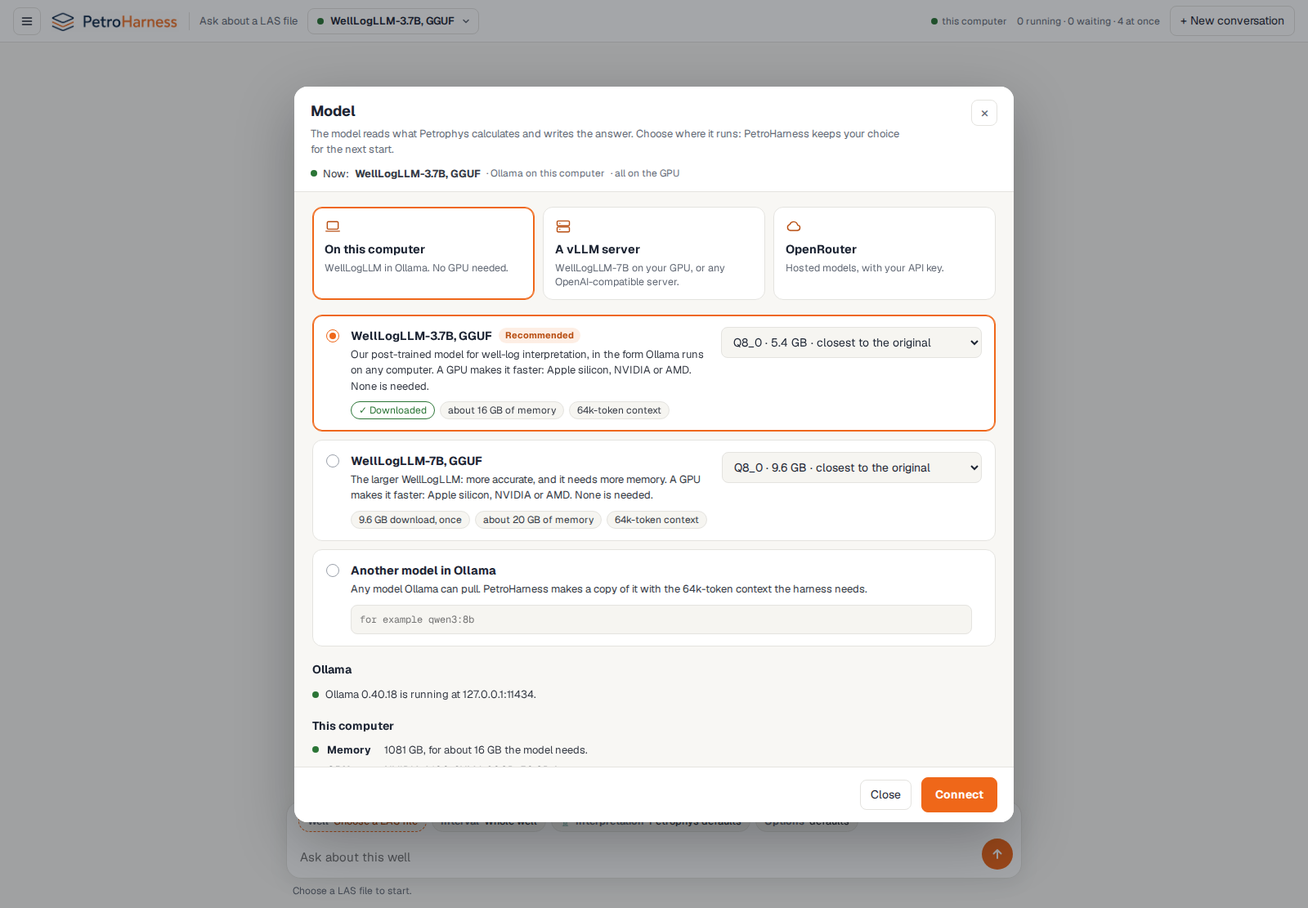
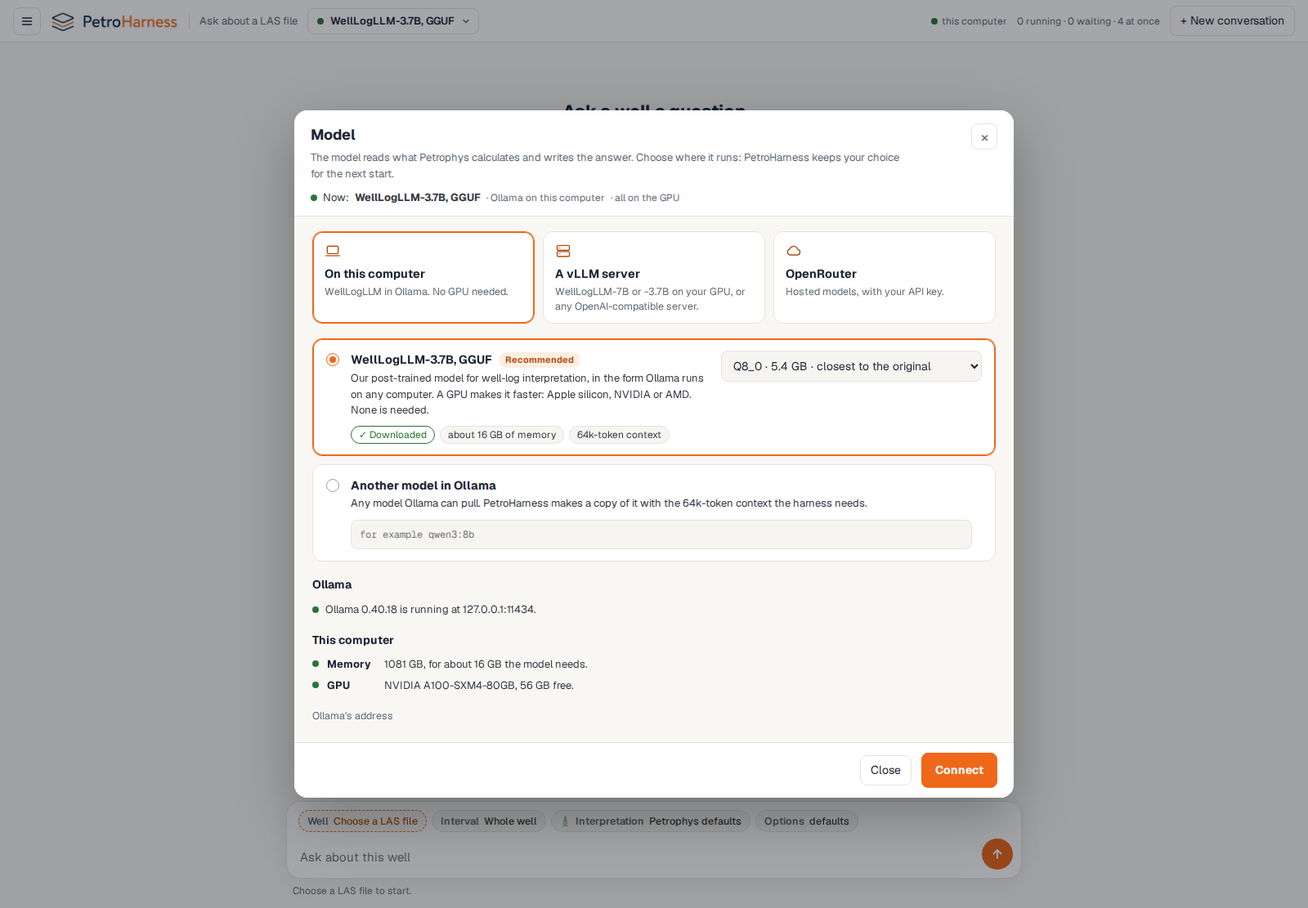
PetroHarness 1.3.1

Changed region(s): [[0.2188, 0.0918, 0.7812, 0.9181], [0.5938, 0.2448, 0.7188, 0.3366], [0.5625, 0.4896, 0.75, 0.5203]]

diff --git a/src/petroharness/ui/static/index.html b/src/petroharness/ui/static/index.html
@@ -1836,7 +1836,7 @@ const M = {st: null, tab: "", pick: "welllogllm", quant: "", other: "", ourl: ""
 const ICON = (d) => `<svg width="20" height="20" viewBox="0 0 24 24" fill="none" stroke="currentColor" stroke-width="1.7" stroke-linecap="round" stroke-linejoin="round">${d}</svg>`;
 const ROUTES = [
   {id: "ollama", t: "On this computer", d: "WellLogLLM in Ollama. No GPU needed.", i: ICON('<rect x="4" y="5" width="16" height="11" rx="1.5"/><path d="M2 19h20"/>')},
-  {id: "server", t: "A vLLM server", d: "WellLogLLM-7B on your GPU, or any OpenAI-compatible server.", i: ICON('<rect x="3" y="4" width="18" height="7" rx="1.5"/><rect x="3" y="13" width="18" height="7" rx="1.5"/><path d="M7 7.5h.01M7 16.5h.01"/>')},
+  {id: "server", t: "A vLLM server", d: "WellLogLLM-7B or -3.7B on your GPU, or any OpenAI-compatible server.", i: ICON('<rect x="3" y="4" width="18" height="7" rx="1.5"/><rect x="3" y="13" width="18" height="7" rx="1.5"/><path d="M7 7.5h.01M7 16.5h.01"/>')},
   {id: "openrouter", t: "OpenRouter", d: "Hosted models, with your API key.", i: ICON('<path d="M7 18h10a4 4 0 0 0 .6-7.96A6 6 0 0 0 6.1 9.2 4.5 4.5 0 0 0 7 18z"/>')}];
 const WHERE = {ollama: "Ollama on this computer", server: "a vLLM server", openrouter: "OpenRouter"};
 const QNOTE = {Q8_0: "closest to the original", Q4_K_M: "smallest, least accurate"};
@@ -1946,9 +1946,8 @@ function mpanelRender() {
   else { p.innerHTML = mRouter(); mRouterWire(); if (!M.or.list && !M.or.loading) routerList(); }
   mfootRender();
 }
-// on this computer: WellLogLLM as a GGUF (3.7B or 7B), or another Ollama model
-const SIZES = [["3.7b", "Our post-trained model for well-log interpretation, in the form Ollama runs on any computer.", true],
-               ["7b", "The larger WellLogLLM: more accurate, and it needs more memory.", false]];
+// on this computer: WellLogLLM-3.7B as a GGUF, or another Ollama model (WellLogLLM-7B is for a GPU server: vLLM)
+const SIZES = [["3.7b", "Our post-trained model for well-log interpretation, in the form Ollama runs on any computer.", true]];
 function mHave(size, q) { const o = M.ollama; return !!(o && o.welllogllm && o.welllogllm[size] && o.welllogllm[size][q]); }
 function mOllama() {
   const o = M.ollama, st = M.st;

diff --git a/src/petroharness/connect.py b/src/petroharness/connect.py
@@ -1,7 +1,7 @@
 """Connect a model: the ways a person running PetroHarness plugs in the model that answers, and the choice they keep.
 
-    ollama      a model on this computer, run by Ollama: WellLogLLM-3.7B or -7B as a GGUF from Hugging Face, or any
-                model Ollama can pull. PetroHarness makes a copy of it with the context window the harness needs
+    ollama      a model on this computer, run by Ollama: WellLogLLM-3.7B as a GGUF from Hugging Face, or any model
+                Ollama can pull. PetroHarness makes a copy of it with the context window the harness needs
                 (CONTEXT), loads it, and says where Ollama runs it (the GPU: Apple silicon through Metal, NVIDIA, AMD;
                 or the CPU) and what on this computer is not ideal for it (checks()).
     server      a vLLM server, or any OpenAI-compatible endpoint, with its API key if it has one.
@@ -42,17 +42,14 @@ OPENROUTER_KEYS = "https://openrouter.ai/keys"
 
 # WellLogLLM as GGUF files, by size: the Hugging Face repository Ollama pulls them from, each quantization's download
 # size in GB, the name of PetroHarness's copy in Ollama, the packaged card, and the Ollama release that first runs their
-# architecture (K2-Horizon).
+# architecture (K2-Horizon). The 3.7B only: a computer without a GPU runs it; WellLogLLM-7B is for a GPU server (vLLM).
 GGUF = {
     "3.7b": {"label": "WellLogLLM-3.7B, GGUF", "repo": "sambal/WellLogLLM-3.7B-GGUF", "copy": "welllogllm-3.7b",
              "quants": {"Q8_0": 5.4, "Q6_K": 4.2, "Q5_K_M": 3.6, "Q4_K_M": 3.2},   # the files: 5.39, 4.16, 3.64, 3.16 GB
              "quant": "Q8_0", "ollama": "0.40.4", "card": "welllogllm_3_7b_gguf"},
-    "7b": {"label": "WellLogLLM-7B, GGUF", "repo": "sambal/WellLogLLM-7B-GGUF", "copy": "welllogllm-7b",
-           "quants": {"Q8_0": 9.6, "Q6_K": 7.4, "Q5_K_M": 6.5, "Q4_K_M": 5.6},   # the files: 9.57, 7.39, 6.47, 5.59 GB
-           "quant": "Q8_0", "ollama": "0.40.4", "card": "welllogllm_7b_gguf"},
 }
 WELLLOGLLM_GGUF = GGUF["3.7b"]          # the default: the one PetroHarness starts with when no model is set
-# Both WellLogLLM models keep 147,456 bytes of context cache a token at 16 bits (36 layers, 8 key-value heads of 128):
+# WellLogLLM keeps 147,456 bytes of context cache a token at 16 bits (36 layers, 8 key-value heads of 128):
 # about 9.7 GB at CONTEXT, on top of the weights. With the runtime's own buffers, what a GGUF needs in memory.
 KV_BYTES_PER_TOKEN = 147456
 OVERHEAD_GB = 1.0
@@ -61,8 +58,8 @@ OVERHEAD_GB = 1.0
 def gguf_needs(size: str, quant: str) -> float:
     """The memory WellLogLLM's GGUF of this size and quantization needs at the harness's context, in GB."""
     return round(GGUF[size]["quants"][quant] + KV_BYTES_PER_TOKEN * CONTEXT / 1e9 + OVERHEAD_GB, 1)
-# WellLogLLM on a vLLM server (vllm_guide()): each model's Hugging Face repository, its served name (that of its packaged
-# card) and the GPU memory it needs at the harness's context window.
+# WellLogLLM on a vLLM server (vllm_guide()), in full precision (BF16): each model's Hugging Face repository, its served
+# name (that of its packaged card) and the GPU memory it needs at the harness's context window.
 VLLM_MODELS = [
     {"label": "WellLogLLM-7B", "repo": "sambal/WellLogLLM-7B", "served": "welllogllm-7b", "gpu": "40 GB"},
     {"label": "WellLogLLM-3.7B", "repo": "sambal/WellLogLLM-3.7B", "served": "welllogllm-3.7b", "gpu": "24 GB"},

diff --git a/tests/ui/test_model_connect.py b/tests/ui/test_model_connect.py
@@ -235,11 +235,11 @@ def test_ollama_too_old_or_missing_is_said_with_what_to_do(ollama):
         C.connect({"route": "ollama", "url": ollama.url, "model": "welllogllm", "size": "13b"})
 
 
-def test_the_7b_gguf_is_its_own_download_and_copy(ollama):
-    choice = C.connect({"route": "ollama", "url": ollama.url, "model": "welllogllm", "size": "7b", "quant": "Q6_K"})
-    assert [c[2]["model"] for c in ollama.calls if c[1] == "/api/pull"] == ["hf.co/sambal/WellLogLLM-7B-GGUF:Q6_K"]
-    assert (choice["model"], choice["label"], choice["size"]) == ("welllogllm-7b:q6_k", "WellLogLLM-7B, GGUF", "7b")
-    assert card_settings(choice["model_card"])["model"] == "welllogllm-7b:q6_k"
+def test_on_this_computer_wellogllm_is_the_3_7b_the_7b_is_for_a_gpu_server(ollama):
+    assert set(C.GGUF) == {"3.7b"}                                              # no 7B GGUF to run on a CPU
+    with pytest.raises(ValueError, match="no WellLogLLM of size 7b"):
+        C.connect({"route": "ollama", "url": ollama.url, "model": "welllogllm", "size": "7b"})
+    assert "WellLogLLM-7B" in [m["label"] for m in C.vllm_guide()["models"]]  # the 7B: the vLLM command
 
 
 # --- what is not ideal on this computer ---------------------------------------------------------------------------------
@@ -285,7 +285,7 @@ def test_no_room_to_download_stops_before_the_download(monkeypatch, ollama):
 
 
 def test_another_computer_s_ollama_is_not_checked_from_here():
-    got = C.checks("7b", "Q8_0", url="http://gpu-box:11434")
+    got = C.checks("3.7b", "Q8_0", url="http://gpu-box:11434")
     assert len(got) == 1 and "another computer" in got[0]["text"]
 
 
@@ -402,7 +402,7 @@ def test_the_dialog_connects_a_model_and_the_next_questions_use_it(tmp_path, oll
         checked = client.json("/api/model/check", {"route": "ollama", "url": ollama.url})[1]
         assert checked["running"] and checked["new_enough"] and not any(checked["welllogllm"]["3.7b"].values())
         assert {c["name"] for c in checked["checks"]} == {"Memory", "GPU", "Disk"}       # this computer, for 3.7B Q8_0
-        assert st["needs"]["3.7b"]["Q8_0"] == C.gguf_needs("3.7b", "Q8_0") and set(st["gguf"]) == {"3.7b", "7b"}
+        assert st["needs"]["3.7b"]["Q8_0"] == C.gguf_needs("3.7b", "Q8_0") and set(st["gguf"]) == {"3.7b"}
         old_pool = app.endpoints
         status, task = client.json("/api/model/connect", {"route": "ollama", "url": ollama.url, "model": "welllogllm"})
         assert status == 200 and task["state"] == "running"

diff --git a/src/petroharness/__init__.py b/src/petroharness/__init__.py
@@ -2,4 +2,4 @@
 Petrophys calculates; the harness investigates and records; the model (any chat model on an OpenAI-compatible
 endpoint; K2-Horizon-7B by default) interprets and writes."""
 
-__version__ = "1.3.0"
+__version__ = "1.3.1"

diff --git a/docs/INSTALL.md b/docs/INSTALL.md
@@ -11,7 +11,7 @@ own computer, with or without a GPU. It downloads the model the first time.
 | | |
 |---|---|
 | Python | 3.10 or later, on macOS, Windows or Linux |
-| For WellLogLLM on your computer | [Ollama](https://ollama.com/download) 0.40.4 or later, and 16 GB of memory or more for WellLogLLM-3.7B (about 20 GB for WellLogLLM-7B). A GPU is used when there is one: Apple silicon, NVIDIA or AMD |
+| For WellLogLLM on your computer | [Ollama](https://ollama.com/download) 0.40.4 or later, and 16 GB of memory or more. A GPU is used when there is one: Apple silicon, NVIDIA or AMD |
 | For WellLogLLM on a GPU server | Linux with an NVIDIA GPU (40 GB or more for WellLogLLM-7B), and vLLM 0.30 or later |
 | For a hosted model | an [OpenRouter API key](https://openrouter.ai/keys) |
 
@@ -54,8 +54,8 @@ the code, install from a clone instead ([Development](DEVELOPMENT.md)).
 
 | Where | Choose it when | Model |
 |---|---|---|
-| [On this computer](#3a-welllogllm-on-this-computer-ollama) | you want your data to stay on your computer, with no GPU needed (a Mac's GPU is used) | WellLogLLM-3.7B or -7B, GGUF, in Ollama |
-| [On a GPU server](#3b-welllogllm-on-a-gpu-server-vllm) | you have an NVIDIA GPU, on this computer or one you reach | WellLogLLM-7B or WellLogLLM-3.7B, in vLLM; or any model vLLM serves |
+| [On this computer](#3a-welllogllm-on-this-computer-ollama) | you want your data to stay on your computer, with no GPU needed (a Mac's GPU is used) | WellLogLLM-3.7B, GGUF, in Ollama |
+| [On a GPU server](#3b-welllogllm-on-a-gpu-server-vllm) | you have an NVIDIA GPU, on this computer or one you reach | WellLogLLM-7B or WellLogLLM-3.7B in full precision, in vLLM; or any model vLLM serves |
 | [OpenRouter](#3c-a-hosted-model-openrouter) | you want a hosted model and nothing to install | any model OpenRouter lists |
 
 The web UI's **Model** dialog (top right of the page, on the model's name) sets up each of them, and PetroHarness keeps
@@ -96,9 +96,9 @@ ollama pull hf.co/sambal/WellLogLLM-3.7B-GGUF:Q8_0
 
 then a copy with `PARAMETER num_ctx 65536` in its Modelfile. The packaged model card `welllogllm_3_7b_gguf` calls it.
 
-**Sizes.** The dialog offers WellLogLLM-3.7B (recommended) and WellLogLLM-7B, the larger model, which needs more
-memory ([`sambal/WellLogLLM-7B-GGUF`](https://huggingface.co/sambal/WellLogLLM-7B-GGUF)), each in four quantizations. A
-smaller file runs in less memory, at some cost in accuracy; Q8_0 is the closest to the original. WellLogLLM-3.7B:
+**Sizes.** The dialog offers four quantizations of WellLogLLM-3.7B. A smaller file runs in less memory, at some cost in
+accuracy; Q8_0 is the closest to the original. WellLogLLM-7B, the larger model, is for a GPU server
+([section 3b](#3b-welllogllm-on-a-gpu-server-vllm)): on a computer without one, it would run far too slowly.
 
 | Quantization | Download | Same top token as the original |
 |---|---|---|
@@ -110,15 +110,12 @@ smaller file runs in less memory, at some cost in accuracy; Q8_0 is the closest 
 The last column compares each file with the unquantized model, token by token, on 57,344 tokens of these pages: how
 often both would write the same next token (llama.cpp's `llama-perplexity --kl-divergence`).
 
-WellLogLLM-7B: Q8_0 9.6 GB, Q6_K 7.4 GB, Q5_K_M 6.5 GB, Q4_K_M 5.6 GB.
-
 Whichever you choose, the 65,536-token context takes about 9.7 GB of memory on top of the model (147,456 bytes a
-token, for either size): plan on 16 GB of memory or more for WellLogLLM-3.7B, and about 20 GB for WellLogLLM-7B in
-Q8_0. A GPU makes the model write far faster: on an NVIDIA A100, Ollama wrote 70 to 134 tokens a second with
+token), so plan on 16 GB of memory or more. A GPU makes the model write far faster: on an NVIDIA A100, Ollama wrote 70 to 134 tokens a second with
 WellLogLLM-3.7B in Q8_0.
 
-**On a Mac.** On Apple silicon, Ollama runs the model on the Mac's GPU through Metal (the GPU PyTorch reaches as
-`mps`), with nothing to set up. The CPU and the GPU share the Mac's memory, so a 16 GB Mac is short for
+**On a Mac.** On Apple silicon, Ollama runs WellLogLLM-3.7B on the Mac's GPU through Metal (the GPU PyTorch reaches
+as `mps`), with nothing to set up. The CPU and the GPU share the Mac's memory, so a 16 GB Mac is short for
 WellLogLLM-3.7B in Q8_0 with the 64k-token context: Ollama may run part of it on the CPU, and the dialog says when it
 does. A
 Mac with an Intel processor runs the model on the CPU.
@@ -134,8 +131,14 @@ pulls it if it does not have it, and PetroHarness makes the same 64k-context cop
 
 ### 3b. WellLogLLM on a GPU server (vLLM)
 
-On Linux with an NVIDIA GPU, serve WellLogLLM-7B (40 GB of GPU memory or more) with vLLM 0.30 or later. The model
-downloads from Hugging Face ([`sambal/WellLogLLM-7B`](https://huggingface.co/sambal/WellLogLLM-7B)) the first time:
+On Linux with an NVIDIA GPU, serve WellLogLLM in full precision (BF16) with vLLM 0.30 or later:
+
+| Model | GPU memory | Hugging Face | Served as |
+|---|---|---|---|
+| WellLogLLM-7B | 40 GB or more | [`sambal/WellLogLLM-7B`](https://huggingface.co/sambal/WellLogLLM-7B) | `welllogllm-7b` |
+| WellLogLLM-3.7B | 24 GB or more: its weights (10.1 GB) and its 64k-token context (9.7 GB) | [`sambal/WellLogLLM-3.7B`](https://huggingface.co/sambal/WellLogLLM-3.7B) | `welllogllm-3.7b` |
+
+The model downloads from Hugging Face the first time. For WellLogLLM-7B:
 
 ```bash
 pip install "vllm>=0.30"
@@ -144,9 +147,9 @@ vllm serve sambal/WellLogLLM-7B --served-model-name welllogllm-7b --port 8000 \
   --reasoning-parser k2_horizon --chat-template-content-format string
 ```
 
-For WellLogLLM-3.7B, use `sambal/WellLogLLM-3.7B` and `--served-model-name welllogllm-3.7b`; its weights (10.1 GB)
-and its 64k-token context (9.7 GB) fit a 24 GB GPU. The Model dialog shows both commands, with a Copy button. vLLM
-runs on Linux with an NVIDIA GPU; on a Mac, run WellLogLLM-7B as a GGUF in Ollama instead (section 3a).
+For WellLogLLM-3.7B, use `sambal/WellLogLLM-3.7B` and `--served-model-name welllogllm-3.7b`. The Model dialog shows
+both commands, with a Copy button. vLLM runs on Linux with an NVIDIA GPU; on a Mac, run WellLogLLM-3.7B in Ollama
+instead (section 3a).
 
 Then connect to it, in the page or from the command line:
 
@@ -235,7 +238,7 @@ your runs folder (`./petroharness-ui-runs` by default) if you do not keep the ru
 |---|---|
 | *Ollama does not answer at 127.0.0.1:11434* | Install Ollama and start it (section 3a), then **Check again**. If it listens elsewhere, give its address under **Ollama's address** |
 | *Ollama … is too old for WellLogLLM* | Update Ollama to 0.40.4 or later |
-| *This computer has … GB; … needs about … GB* | Choose a smaller size (WellLogLLM-3.7B, or a smaller quantization), or run the model on a computer with more memory |
+| *This computer has … GB; … needs about … GB* | Choose a smaller quantization, or run the model on a computer with more memory |
 | *No GPU found* or *This Mac has no Apple silicon GPU* | It works on the CPU, far more slowly; on a computer with a GPU, Ollama uses it |
 | *Ollama put …% of the model on the CPU* | The model and its context did not fit in the GPU's memory: close programs that use it, or choose a smaller size |
 | *The download is … GB and … GB is free* | Free some disk space where Ollama keeps models, or choose a smaller size |

diff --git a/docs/MODELS.md b/docs/MODELS.md
@@ -64,7 +64,7 @@ asked keep theirs.
 
 | Route | What PetroHarness does |
 |---|---|
-| On this computer | Checks Ollama (and says how to install it when it is missing) and this computer (memory, GPU, disk), pulls WellLogLLM-3.7B or -7B as a GGUF or any model you name, makes a copy of it with a 65,536-token context, loads it and says where Ollama put it (all on the GPU, part on the CPU, or on the CPU). The page follows the download; what is not ideal is marked, with what to do |
+| On this computer | Checks Ollama (and says how to install it when it is missing) and this computer (memory, GPU, disk), pulls WellLogLLM-3.7B as a GGUF or any model you name, makes a copy of it with a 65,536-token context, loads it and says where Ollama put it (all on the GPU, part on the CPU, or on the CPU). The page follows the download; what is not ideal is marked, with what to do |
 | A vLLM server | Shows the commands that serve WellLogLLM-7B and -3.7B, lists the models the server at your address serves (with its API key if it has one), and chooses the card from the model's name: WellLogLLM and K2-Horizon models get the WellLogLLM card, others the generic one |
 | OpenRouter | Checks your key, lists OpenRouter's text models with their context window, price, reasoning and JSON support, and writes a hosted-API card for the one you choose |
 
@@ -121,10 +121,9 @@ vllm serve sambal/WellLogLLM-7B --served-model-name welllogllm-7b --port 8000 \
 petroharness --launch-ui --model-card welllogllm_7b --model-url http://localhost:8000/v1
 ```
 
-Both as GGUF files, for Ollama and llama.cpp on any computer (on a Mac, on its GPU through Metal):
-[`sambal/WellLogLLM-3.7B-GGUF`](https://huggingface.co/sambal/WellLogLLM-3.7B-GGUF) and
-[`sambal/WellLogLLM-7B-GGUF`](https://huggingface.co/sambal/WellLogLLM-7B-GGUF), in Q8_0, Q6_K, Q5_K_M and Q4_K_M
-([Install and set up](INSTALL.md#3a-welllogllm-on-this-computer-ollama)).
+WellLogLLM-3.7B as a GGUF, for Ollama and llama.cpp on any computer (on a Mac, on its GPU through Metal):
+[`sambal/WellLogLLM-3.7B-GGUF`](https://huggingface.co/sambal/WellLogLLM-3.7B-GGUF), in Q8_0, Q6_K, Q5_K_M and Q4_K_M
+([Install and set up](INSTALL.md#3a-welllogllm-on-this-computer-ollama)). WellLogLLM-7B is for a GPU server.
 </details>
 
 <details>
@@ -157,10 +156,9 @@ are in `src/petroharness/resources/models/`:
   answer's figures.
 - `welllogllm_7b.yaml`, `welllogllm_3_7b.yaml`: WellLogLLM-7B and -3.7B on vLLM, served as `welllogllm-7b` and
   `welllogllm-3.7b`, called as K2-Horizon-7B's card calls it.
-- `welllogllm_3_7b_gguf.yaml`, `welllogllm_7b_gguf.yaml`: WellLogLLM-3.7B and -7B as GGUF files in Ollama
-  (`welllogllm-3.7b:q8_0`, `welllogllm-7b:q8_0` at `http://localhost:11434/v1`): the same, with JSON asked for in the
-  prompt alone (`structured_output: none`) and three hours for a request (`timeout_s`), since a computer without a GPU
-  writes far more slowly.
+- `welllogllm_3_7b_gguf.yaml`: WellLogLLM-3.7B as a GGUF in Ollama (`welllogllm-3.7b:q8_0` at
+  `http://localhost:11434/v1`): the same, with JSON asked for in the prompt alone (`structured_output: none`) and three
+  hours for a request (`timeout_s`), since a computer without a GPU writes far more slowly.
 - `generic.yaml`: any chat model, named with `--model`. It sends no sampling settings and no chat-template variables,
   so the model's own defaults apply. Its output caps are 16,384 tokens for a step and for the writer; raise them for
   a model that thinks at length.

diff --git a/docs/reference/WEB_UI_API.md b/docs/reference/WEB_UI_API.md
@@ -299,7 +299,7 @@ The server of [section 3](#3-command-line-and-environment), one endpoint up and 
 model's name and the runs folder replaced):
 
 ```json
-{"version": "1.3.0", "model": "<served model name>", "label": "K2-Horizon-7B", "route": null, "connecting": false,
+{"version": "1.3.1", "model": "<served model name>", "label": "K2-Horizon-7B", "route": null, "connecting": false,
  "endpoints": [{"url": "http://HOST:8000/v1", "ok": true, "models": ["<served model name>"], "ms": 6, "busy": 0},
                {"url": "http://localhost:8001/v1", "ok": false, "models": [],
                 "error": "URLError: <urlopen error [Errno 111] Connection refused>", "busy": 0}],
@@ -1805,7 +1805,7 @@ this server listens beyond this computer, so its page cannot change its model. .
 | `POST /api/model/check` | `{route: "ollama", url?, size?, quant?}` | Ollama's `{running, version, new_enough, models, local, welllogllm: {SIZE: {QUANT: bool}}, checks}`: `checks` are this computer's, for that size and quantization (`[{name, state: ok, warn or bad, text}]`) | `App.model_check`, `connect.ollama_status`, `connect.checks` |
 | | `{route: "server", url, key?}` | `{url, models: [{id, context}], key_kept}`; the kept key for the address when none is given | `connect.server_models` |
 | | `{route: "openrouter", key?}` | `{label, limit, usage}` from OpenRouter, or 400 when it does not take the key | `connect.openrouter_check` |
-| `POST /api/model/connect` | `{route: "ollama", url?, model: "welllogllm" \| NAME, size?: "3.7b" \| "7b", quant?}`, `{route: "server", url, key?, remember?, model, kind?}` or `{route: "openrouter", key?, remember?, model}` | the task, `state: running`; follow it in `GET /api/model`. Once done, the next questions use the model and it is saved for the next start; a wrong choice ends the task in `error` with the message. A second connection while one runs: 400 | `App.connect`, `connect.connect` |
+| `POST /api/model/connect` | `{route: "ollama", url?, model: "welllogllm" \| NAME, size?: "3.7b", quant?}`, `{route: "server", url, key?, remember?, model, kind?}` or `{route: "openrouter", key?, remember?, model}` | the task, `state: running`; follow it in `GET /api/model`. Once done, the next questions use the model and it is saved for the next start; a wrong choice ends the task in `error` with the message. A second connection while one runs: 400 | `App.connect`, `connect.connect` |
 | `POST /api/model/stop` | `{}` | the task; a download in progress is abandoned (`state: stopped`) | `App.connect_stop` |
 | `POST /api/model/forget` | `{route, url?}` | the keys kept, that one removed | `connect.keep_key` |
 

diff --git a/docs/reference/RECORDS.md b/docs/reference/RECORDS.md
@@ -213,7 +213,7 @@ Set in `agent/graph.py` unless noted.
 | `answer` | str | always | The delivered answer | `ask.py`, `session/graph.py`, `cli.py` |
 
 ```json
-{"task_id": "a2f8275dd57", "well": "30_6-5", "formation": "BRENT GP.", "harness": "petroharness 1.3.0",
+{"task_id": "a2f8275dd57", "well": "30_6-5", "formation": "BRENT GP.", "harness": "petroharness 1.3.1",
  "commit": "<commit>", "model": "K2-Horizon-7B", "skills": {"library": "researched", "version": "18c03ad5d3f8"},
  "components": {"C1": "6f8f4c39893a", "...": "..."}, "reads_depth": true, "status": "ok", "seconds": 903.5}
 ```
@@ -601,7 +601,7 @@ The setup record of the process answering from this question on ([section 9](#9-
 
 ```json
 {"seq": 3, "time": "<time>", "turn": 1, "type": "setup", "hash": "d70dbbf039dd",
- "harness": "1.3.0", "commit": "<commit>", "petrophys": "3.0.0@files-c5de047fe601",
+ "harness": "1.3.1", "commit": "<commit>", "petrophys": "3.0.0@files-c5de047fe601",
  "components": {"C1": "6f8f4c39893a", "...": "..."}, "functions": "1e177d0c7ca2", "model": "<served model name>",
  "card": "33012b760d52", "data": "61dcbf7ecfe4", "policy": "7631a4a859eb", "writer": "open", "max_steps": 8, "...": "..."}
 ```
@@ -880,7 +880,7 @@ Set in `core/setup.py`, `of` unless noted.
 
 | Field | Type | Default | Meaning | Defined in |
 |---|---|---|---|---|
-| `harness` | str | none | The package version (`petroharness.__version__`, `1.3.0`) | `of` |
+| `harness` | str | none | The package version (`petroharness.__version__`, `1.3.1`) | `of` |
 | `commit` | str | `""` for an installed package | The harness commit when `core/setup.py` is a tracked file, with `+dirty` when `src/` has changes | `harness_commit` |
 | `petrophys` | str | none | The Petrophys build (`library_identity`) | `well/prepare.py` |
 | `components` | object | none | Each component's version | `agent/components.py`, `versions` |
@@ -1222,7 +1222,7 @@ Defined in `evidence/report.py`, `markdown` unless noted.
 - **Interval:** BRENT GP. (2841.0-2958.0 m; 768 samples)
 - **LAS file:** `<site-packages>/petrophys/datasets/geolink/30_6-5.las`, SHA-256 `5ecf2c53...801b9`
 - ...
-- **PetroHarness:** 1.3.0 commit <commit>, setup `d70dbbf039dd`
+- **PetroHarness:** 1.3.1 commit <commit>, setup `d70dbbf039dd`
 - **Questions:** 2 answered of 2 asked
 ```
 

diff --git a/docs/UI.md b/docs/UI.md
@@ -468,8 +468,8 @@ The top bar names the model on a button, with a dot: green when the model answer
 is not ideal on this computer (part of it on the CPU, for example; a bar under the top bar says what, until you dismiss
 it), orange while it is being made ready, red when it does not answer. The button opens the **Model** dialog, which connects another model while the server runs:
 
-- **On this computer**: WellLogLLM-3.7B (recommended) or WellLogLLM-7B as a GGUF in Ollama, each in four
-  quantizations, or any model Ollama can pull. PetroHarness checks Ollama (and says how to install it when it is
+- **On this computer**: WellLogLLM-3.7B as a GGUF in Ollama (recommended, in four quantizations), or any model Ollama
+  can pull. PetroHarness checks Ollama (and says how to install it when it is
   missing) and this computer: its memory, its GPU (Apple silicon, NVIDIA or AMD) and the disk space for the download,
   marking what is not ideal with what to do. Then it pulls the model, makes a copy of it with a 65,536-token context,
   loads it, and says where Ollama put it: all on the GPU (on a Mac, through Metal), part on the CPU, or on the CPU.

diff --git a/docs/reference/CONFIGURATION.md b/docs/reference/CONFIGURATION.md
@@ -451,8 +451,7 @@ Notes:
 - The card: `--model-card` (a YAML file, or a packaged card's name with or without `.yaml`), else the generic card
   when `--model` is given, else the K2-Horizon-7B card (`models.card_file`). The packaged cards are in
   `src/petroharness/resources/models/`: `generic` (no sampling or template fields sent, caps 16384, timeout 1800 s,
-  2 retries), the default card, and the WellLogLLM cards `welllogllm_7b`, `welllogllm_3_7b`, `welllogllm_7b_gguf` and
-  `welllogllm_3_7b_gguf`.
+  2 retries), the default card, and the WellLogLLM cards `welllogllm_7b`, `welllogllm_3_7b` and `welllogllm_3_7b_gguf`.
 - A card the Model dialog writes is in `cards/` of PetroHarness's folder; its `api_key_env` names a variable of its own
   (`PETROHARNESS_KEY_` and ten characters), which PetroHarness sets from `keys.json` (`connect.arm`).
 - Each card, model name and endpoint list gets a registry key in `models.MODELS`: `(card file, endpoints[, model])`

diff --git a/CHANGELOG.md b/CHANGELOG.md
@@ -1,5 +1,16 @@
 # Changelog
 
+## 1.3.1 (2026-11-27)
+
+WellLogLLM-7B is for a GPU server.
+
+- **On this computer, WellLogLLM-3.7B.** The Model dialog's *On this computer* offers WellLogLLM-3.7B alone, the model
+  a computer without a GPU runs: WellLogLLM-7B would run far too slowly there. Serve WellLogLLM-7B with vLLM on a GPU
+  server (the dialog's *A vLLM server* shows the command). The `welllogllm_7b_gguf` card is gone.
+- **On a GPU server, WellLogLLM-7B or -3.7B in full precision.** The dialog's *A vLLM server* names both, and Install
+  and set up lists the GPU memory each needs.
+- The Model dialog's pictures in the documentation, as it now is.
+
 ## 1.3.0 (2026-11-27)
 
 WellLogLLM, our post-trained model, is the default, and the web UI connects any model.

diff --git a/README.md b/README.md
@@ -56,8 +56,8 @@ or drop your own LAS file, choose the interval, and ask in your own words. On a 
 
 **3. Or choose another model**
 
-**Model** (top right of the page) connects WellLogLLM-7B on your own GPU server (the dialog shows the vLLM command to
-start it, with a Copy button), any model a vLLM server or Ollama serves, or a hosted model through OpenRouter with your
+**Model** (top right of the page) connects WellLogLLM-7B or the full WellLogLLM-3.7B on your own GPU server (the
+dialog shows the vLLM commands that start them, with a Copy button), any model a vLLM server or Ollama serves, or a hosted model through OpenRouter with your
 API key. PetroHarness keeps the choice for the next start and for the command. From the command line:
 
 ```bash
